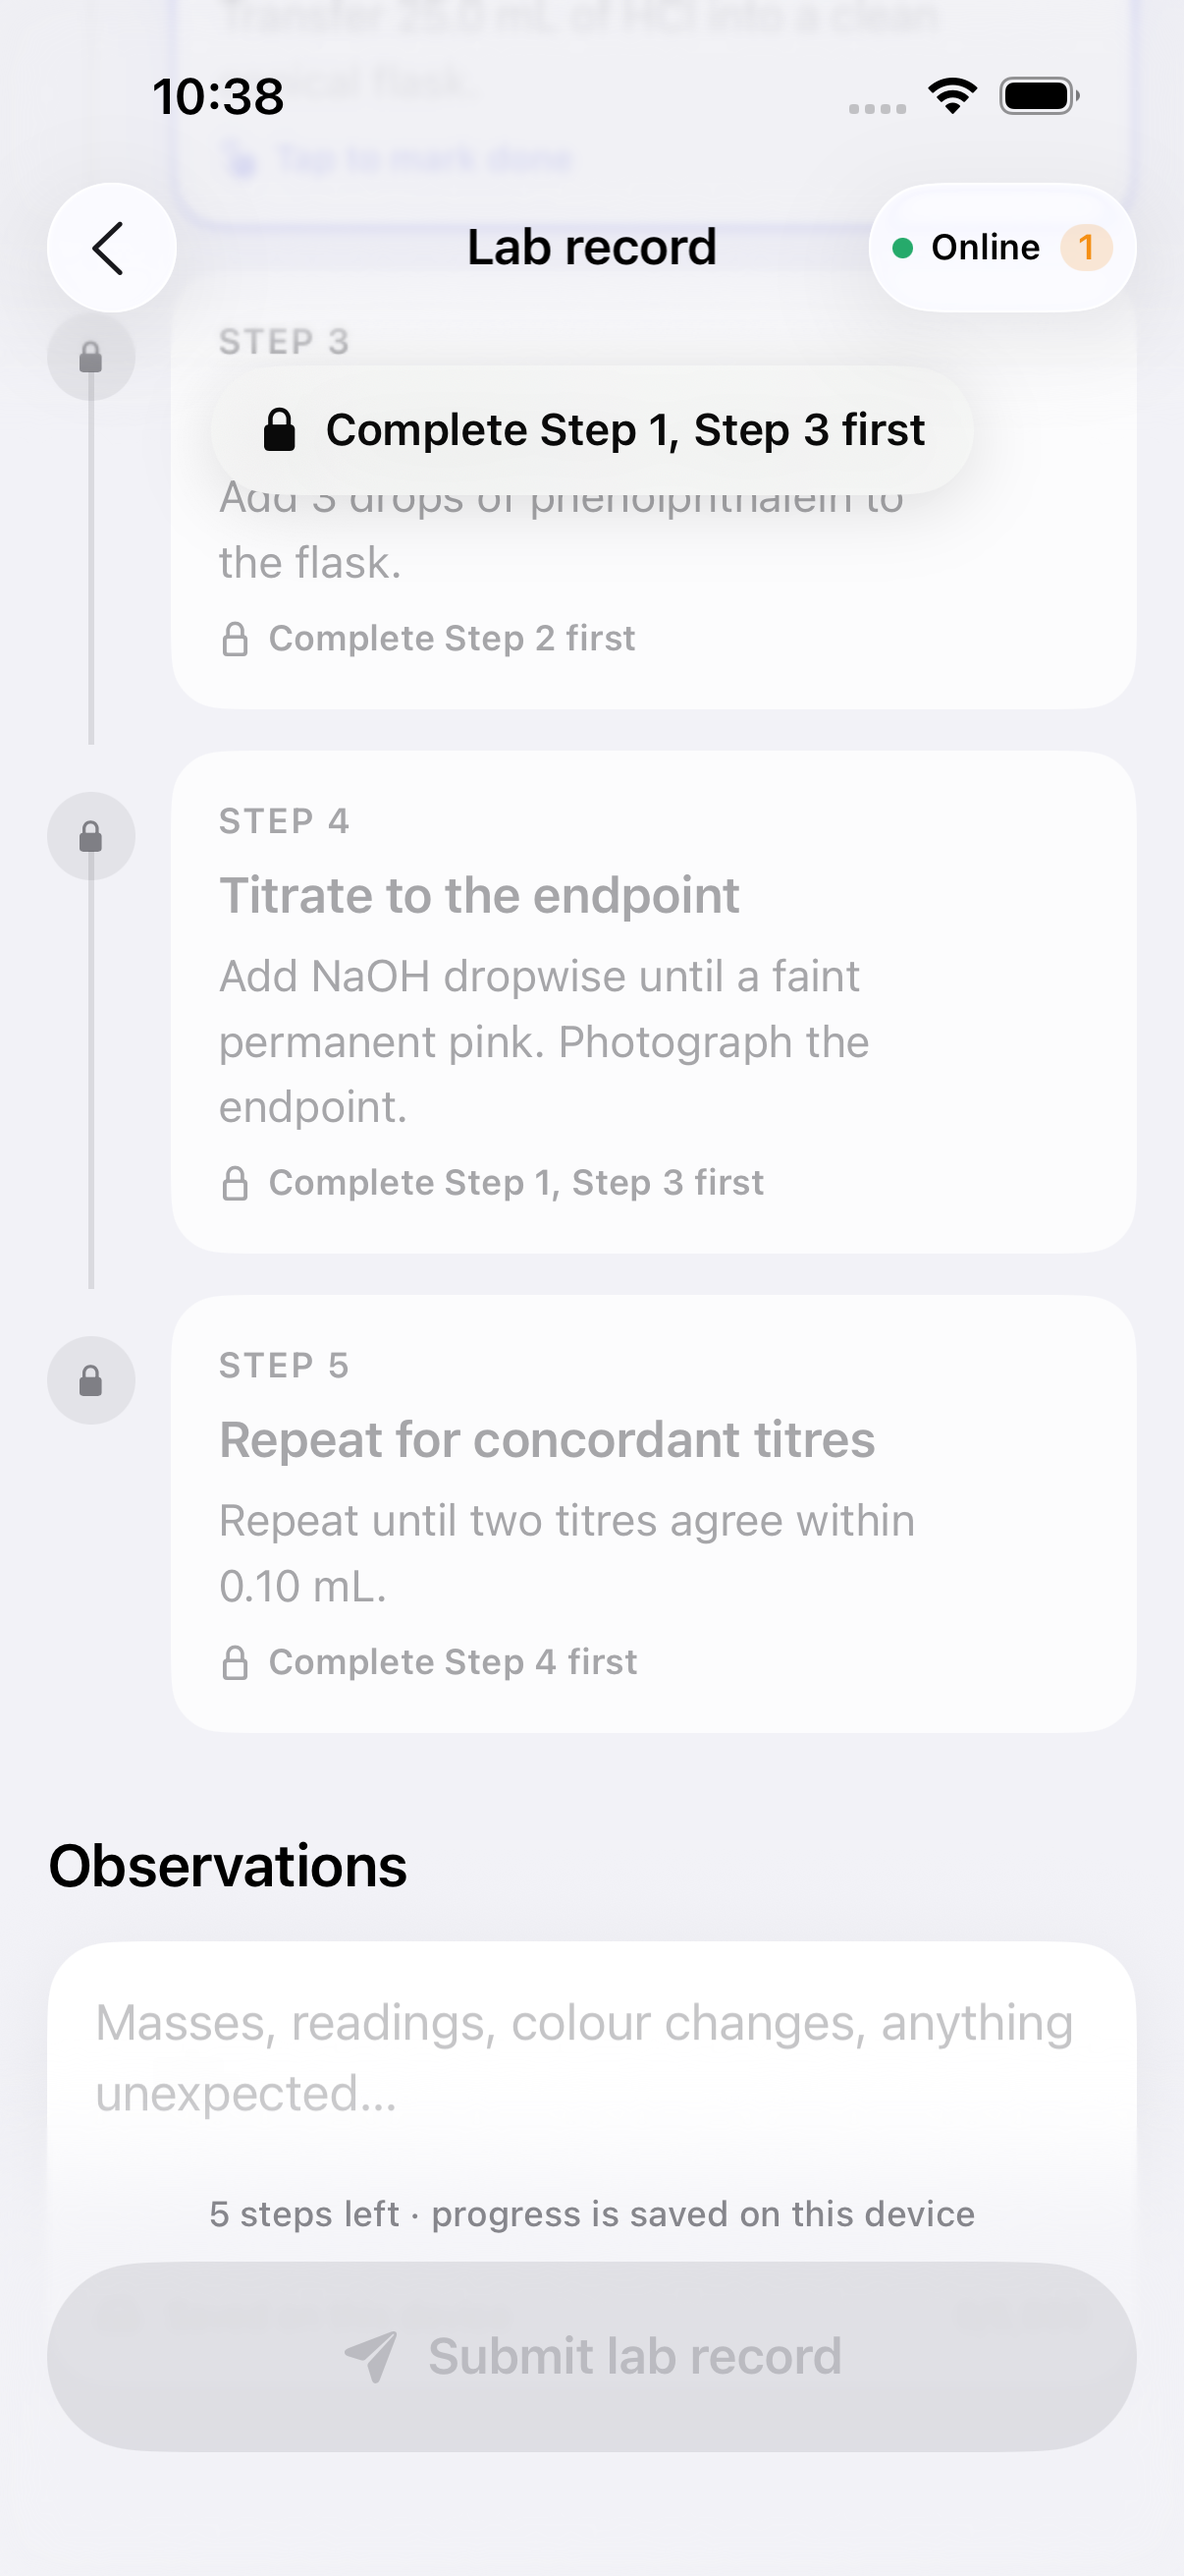
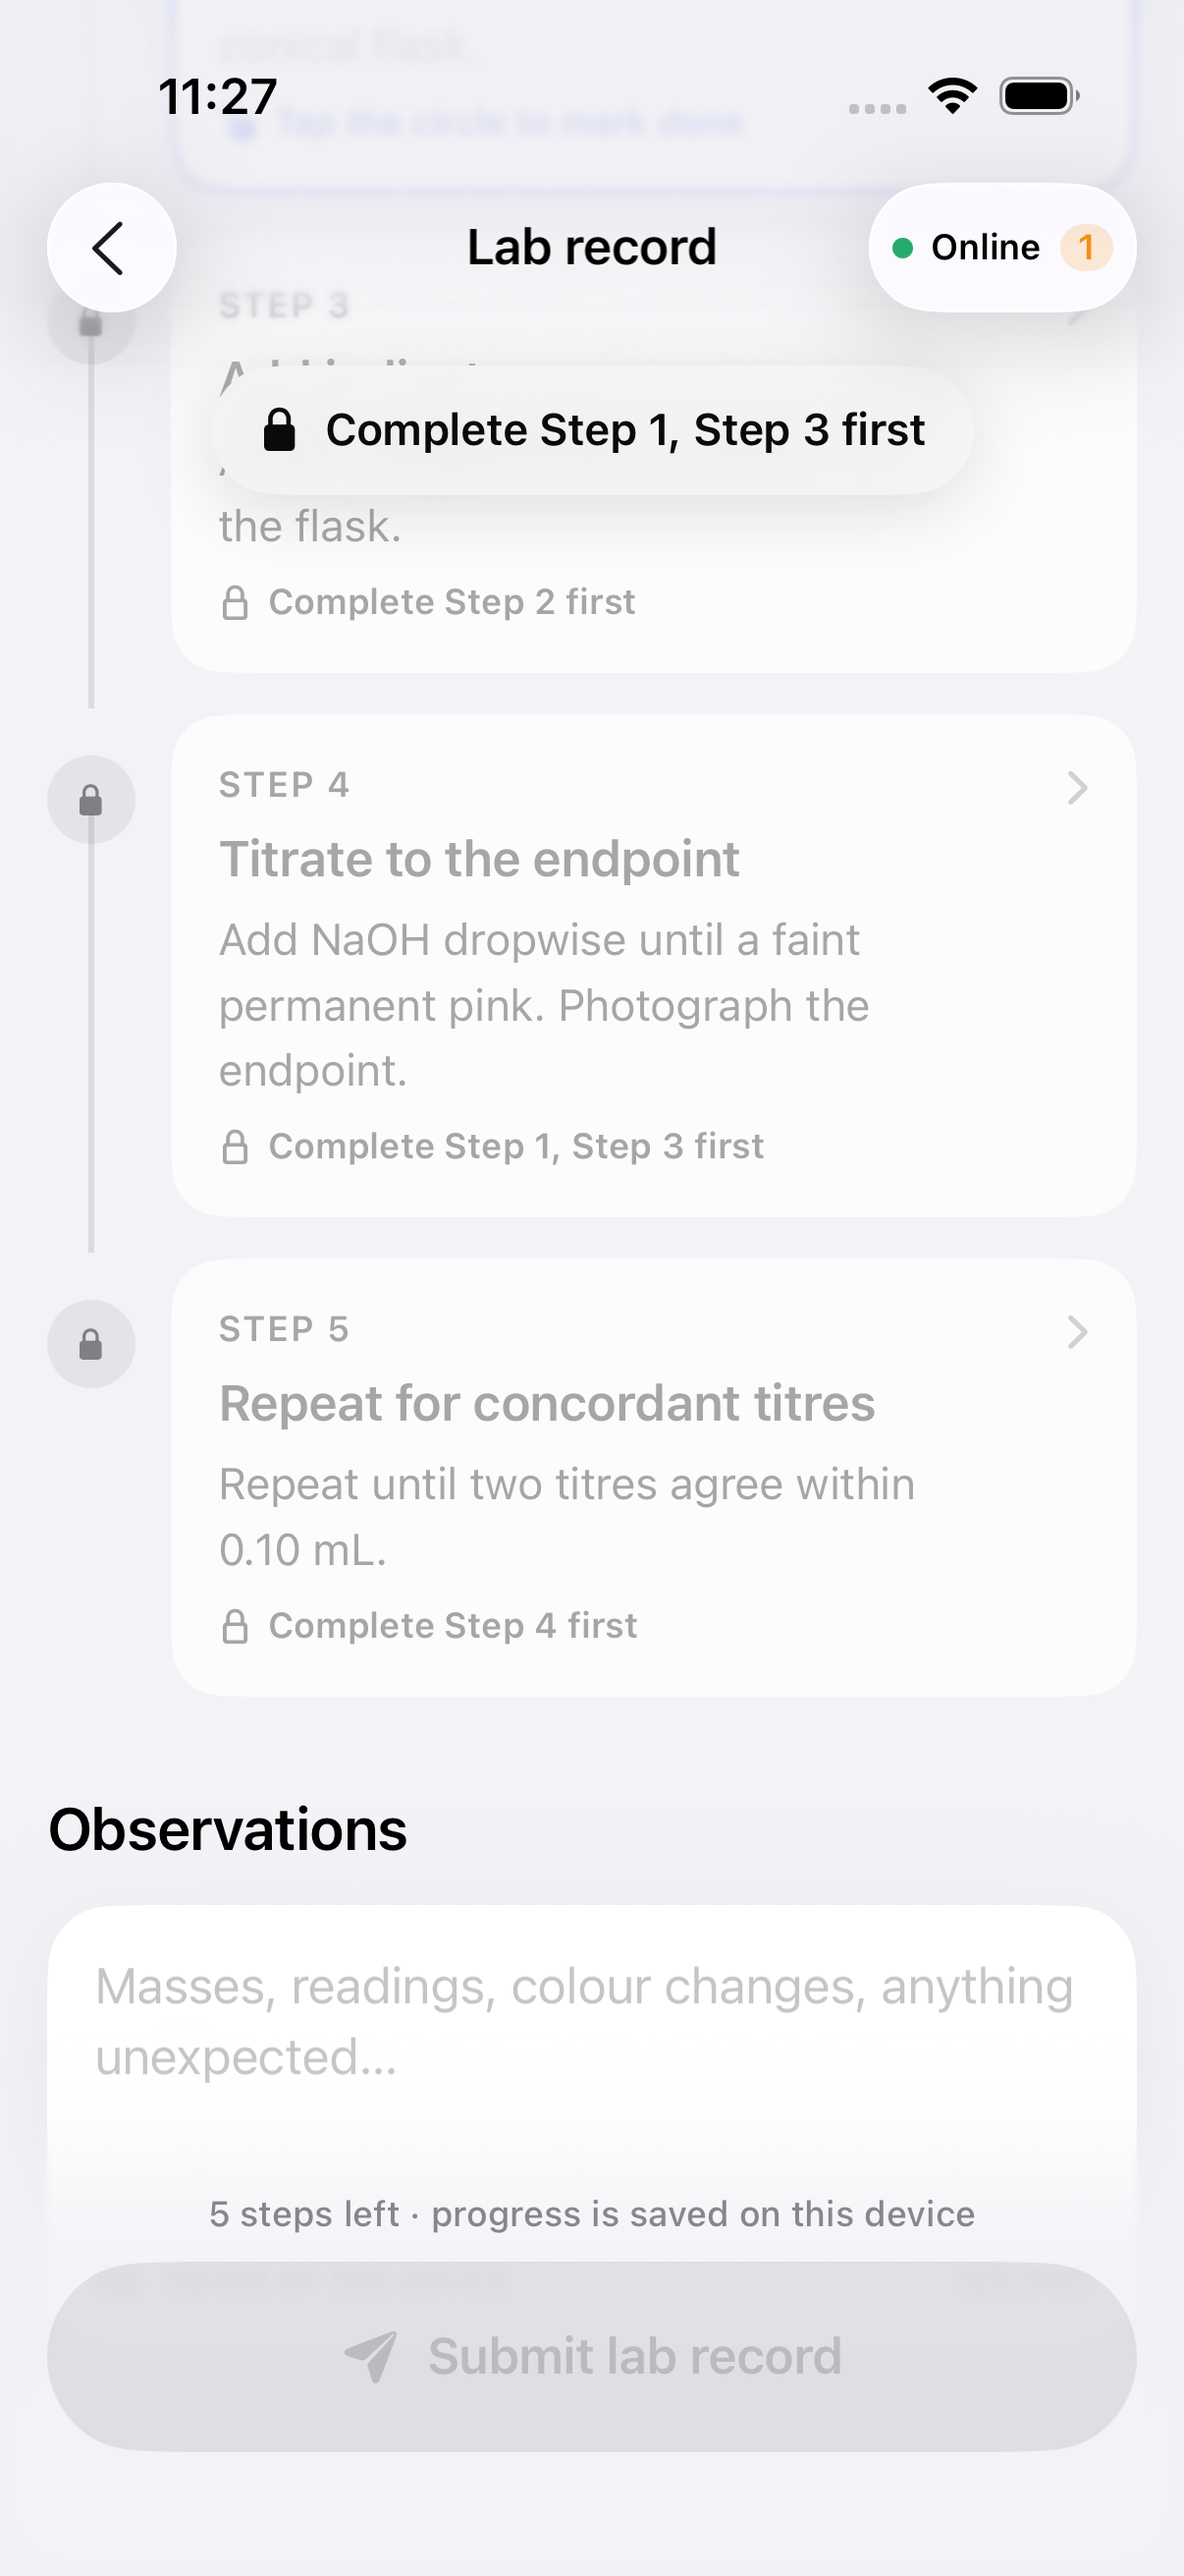
Log Live Activity and step guide work: ADR-015 to 017, failures 005-007
- ADR-015 Live Activity timer, ADR-016 step guide and circle/card taps,
  ADR-017 review-and-submit sheet and richer Live Activity
- Failure log 005 (container accessibility identifiers), 006 (flaky
  timer UI test), 007 (submit popover) with exact errors and prompts
- Refreshed UI-test screenshots incl. guide, timer dial, Dynamic Island,
  Lock Screen and submit flow; README source layout

diff --git a/docs/failure-log.md b/docs/failure-log.md
@@ -77,6 +77,41 @@ On the Mac this showed up as a repeating "LabLog quit unexpectedly" dialog.
 **Fix:** Use an explicit `HStack { Image; Text }` with `.lineLimit(1).fixedSize()` for badges and the Network value.
 **AI result:** partially. The first fix was wrong (icon only); the second worked.
 
+### [2026-10-12] Submit confirmation rendered as a popover pointing at a step card (UX)
+**Type:** logic (UI/UX)
+**What I was doing:** Submitting a record on my iPhone (iOS 27.2, dark mode).
+**Error / output:** The `.confirmationDialog("Submit this lab record?")` appeared as a floating popover near the top, with its arrow pointing at the Step 1 card. It looked broken, and it didn't show what was being submitted.
+**Screenshot:** _TODO: save my iPhone screenshot as `screenshots/007-submit-popover.png`._ After: ![review sheet](screenshots/ui/ui-10b-review-submit.png) ![success](screenshots/ui/ui-10c-submitted-success.png)
+**Cause:** On recent iOS, a confirmation dialog attached to a large container is presented as a popover anchored to that view, not as an action sheet from the button.
+**Fix:** Replaced it with `SubmitReviewSheet`: a summary of steps, photos, observation and location; a warning if there is no observation; one primary "Submit lab record" button and a "Keep editing" option; then an animated "Submitted" state that closes itself. (ADR-017)
+**AI prompt used:**
+    > this submit dialog look ugly, fix it, also make dynamic island more good with details and make proffesional
+**AI result:** worked. Verified in UI-test screenshots.
+
+### [2026-10-12] Flaky timer UI test (tap during push; island press deep-linked)
+**Type:** logic (UI test)
+**What I was doing:** Re-running `testPendulumTimer` to recapture screenshots.
+**Error / output:** Run A: `Failed to tap "start-record" Any: No matches found`. Run B: `LabLogFlowUITests.swift:207: XCTAssertTrue failed` (waiting for `timer-pill` after returning to the app).
+**Screenshot:** ![flaky](screenshots/006-flaky-pendulum-ui-test.png) (raw: [`006-flaky-pendulum-ui-test.log`](screenshots/006-flaky-pendulum-ui-test.log))
+**Cause:** A: the test tapped the experiment and then Start before the navigation push had finished. B: the long-press that expands the Dynamic Island also registered as a tap. That opened the app through the Live Activity's deep link, which opened the step guide over the timer pill. That part is correct app behaviour; the test didn't expect it.
+**Fix:** Added `waitForExistence` before each tap in the flow, and the test now closes the guide if the island press opened it.
+**AI result:** worked after both fixes.
+
+### [2026-10-12] Container accessibilityIdentifier overrode every child's identifier
+**Type:** logic (UI test / accessibility)
+**What I was doing:** Running the UI tests after adding the step guide sheet and the Live Activity timer.
+**Error / output:**
+    LabLogFlowUITests.swift:63: error: -[LabLogUITests.LabLogFlowUITests testTitrationFlow] : XCTAssertTrue failed
+    LabLogFlowUITests.swift:176: error: -[LabLogUITests.LabLogFlowUITests testPendulumTimer] : XCTAssertTrue failed
+    (debug description) Button …, identifier: 'step-guide', label: 'Close guide'
+**Screenshot:** ![ids](screenshots/005-accessibility-id-overrides-children.png) (raw: [`005-accessibility-id-overrides-children.log`](screenshots/005-accessibility-id-overrides-children.log))
+**Cause:** The guide sheet *did* open. But I had put `.accessibilityIdentifier("step-guide")` on the sheet's root view, and SwiftUI pushes a container's identifier down onto its children, replacing their own (`close-guide`, `guide-mark-done`, `timer-dial`). The tests waited for ids that no longer existed.
+**Second instance (same run, pendulum test):** the record header card had `.accessibilityElement(children: .combine)` applied *after* the floating timer pill was overlaid on it. That merged the pill into the header, so the whole header (`label: '2, of 4, Simple Pendulum…'`) carried the `timer-pill` identifier, and the test tapped the header's centre instead of the pill. This was also wrong for VoiceOver users, because the pill wasn't a separate button.
+**Fix:** Removed the container-level identifiers (guide sheet, evidence section, submission receipt). Moved `.accessibilityElement(children: .combine)` before the pill overlay so the pill stays its own button. Re-ran: both UI tests pass. Lesson: only put identifiers on leaf elements, and combine accessibility children before overlaying controls.
+**AI prompt used:**
+    > add more interactibe animations like when timer goes show them in dynamic island and show interactive timer, and when we click step add step guide as well
+**AI result:** partially. The feature built cleanly first time, but this mistake failed both UI tests until it was fixed.
+
 ### [2026-10-12] UI test tapped the floating Submit bar instead of Step 4 (+ xcodebuild hang)
 **Type:** logic (UI test)
 **What I was doing:** Running the UI tests after the visual redesign (ADR-013).

diff --git a/docs/decision-records.md b/docs/decision-records.md
@@ -76,6 +76,21 @@
 **Decision.** Map rows to camelCase in `catalog.service.ts`; experiment detail returns `{…experiment, steps}` sorted by order. Call `createSignedUploadUrl(path, { upsert: true })`.
 **Consequences.** One JSON convention end to end, and photo retries are safe, matching ADR-004. The mapping layer must be updated whenever a column is added.
 
+## ADR-015 — Timed steps run as a Live Activity (Dynamic Island + Lock Screen)
+**Context.** Timer guards (e.g. "Allow to dissolve (5 min)") make students wait. Mid-wait they put the phone down or switch apps, and they had no way to know when the step unlocked.
+**Decision.** A widget extension (`LabLogWidgets`) draws a `StepTimerAttributes` Live Activity: a countdown and progress ring in the Dynamic Island (compact, minimal and expanded) and on the Lock Screen. The countdown uses `Text(timerInterval:)` / `ProgressView(timerInterval:)`, so the system keeps it live with no app updates; `staleDate` = end time flips it to "Ready". `StepTimerCoordinator` starts and ends the activity from the same precedence + duration rules as `StepConstraintEngine`. A "Mark done" button (`CompleteTimedStepIntent`, a `LiveActivityIntent`) runs in the app process through `LiveActivityBridge` and still has to pass the constraint engine. A local notification fires when the wait ends; notification permission is requested at the first timer, not at launch. A tap on the island or the notification deep-links (`lablog://record/<id>?step=<id>`) to the step guide.
+**Consequences.** Students can leave the app during a wait and still see the countdown, and nothing can be completed early from the island. It adds a second target and shared code (`Shared/`), and the extension needs its own App ID under the free Personal Team.
+
+## ADR-016 — Step guide; circle = quick action, card = guide
+**Context.** A one-line instruction isn't enough to teach a procedure. Also, tapping a whole row to complete a step made accidental completions easy.
+**Decision.** Each step can carry a `StepGuide` (how-to sub-steps, a safety note, the expected result). It is stored in new optional SwiftData fields and new `steps` columns (migration `002_step_guides.sql`), and the bundled catalog version is bumped so existing installs pick it up. In `ExperimentChecklist`, tapping the status circle is the quick action (complete / photo / explain lock); tapping the card fires the new `onStepSelected` event, which opens `StepGuideSheet`. The guide shows what blocks the step (tap a blocker to jump to its guide), an interactive timer dial (tap to switch between remaining time and ready-at), and the one action that moves the step forward, all through the constraint engine. A haptic fires when a timer guard runs out.
+**Consequences.** Better teaching and fewer accidental taps, and the circle-vs-row pattern is familiar from Reminders. Guide content lives in two places (`CatalogSeed` and `seed.sql`); both are generated from one script so they stay identical, and a unit test checks every bundled step has a guide.
+
+## ADR-017 — Review-and-submit sheet; richer Live Activity
+**Context.** Submitting is the one irreversible action in the app, but the system confirmation dialog showed no detail and rendered as a misplaced popover. The first Live Activity only showed a countdown, with no sense of overall progress or what comes next.
+**Decision.** Submission goes through `SubmitReviewSheet`. It shows what will be handed in (steps, photos, observation, location stamp), warns if there is no observation, has one primary action, and ends in an animated success state with a haptic. The Live Activity gains overall progress (step X of N plus progress dots), the lab name, start and ready times, an "Up next" line, a Guide link, and a distinct ready state (green "Wait over" with a prominent Mark done).
+**Consequences.** Students confirm with full information (Apple's Agency principle: confirm only irreversible actions, with context). The island is useful at a glance. `StepTimerAttributes` carries more fields, and the coordinator updates the activity when other steps finish during a wait.
+
 <!-- ADR-00N — <title>
 **Context.** …
 **Decision.** …

diff --git a/README.md b/README.md
@@ -24,10 +24,14 @@ LabLog/
     Remote/       APIClient (LabLogAPI), DTOs, AuthService (Supabase GoTrue), Keychain
     Sync/         SyncEngine (outbox) + Reachability (NWPathMonitor)
   Hardware/       CameraPicker, LocationService
+  LiveActivity/   StepTimerCoordinator (starts/ends the timer activity, "ready" notification)
   Assets.xcassets AppIcon (original artwork), AccentColor
-Config/           LabLog.xcconfig, Secrets.example.xcconfig, Info.plist
-LabLogTests/      StepConstraintEngine, SwiftDataStore, SyncEngine tests (28)
-LabLogUITests/    end-to-end flow + screenshots (2)
+Shared/           compiled into app + widget: StepTimerAttributes, CompleteTimedStepIntent,
+                  Discipline palette, deep links
+LabLogWidgets/    widget extension: Dynamic Island + Lock Screen Live Activity
+Config/           LabLog.xcconfig, Secrets.example.xcconfig, Info.plist, LabLogWidgets-Info.plist
+LabLogTests/      constraint engine, SwiftDataStore, SyncEngine, Live Activity/guide tests (36)
+LabLogUITests/    end-to-end flows + screenshots, incl. Dynamic Island (2)
 docs/             decision-records.md, failure-log.md, screenshots/
 ```
 
